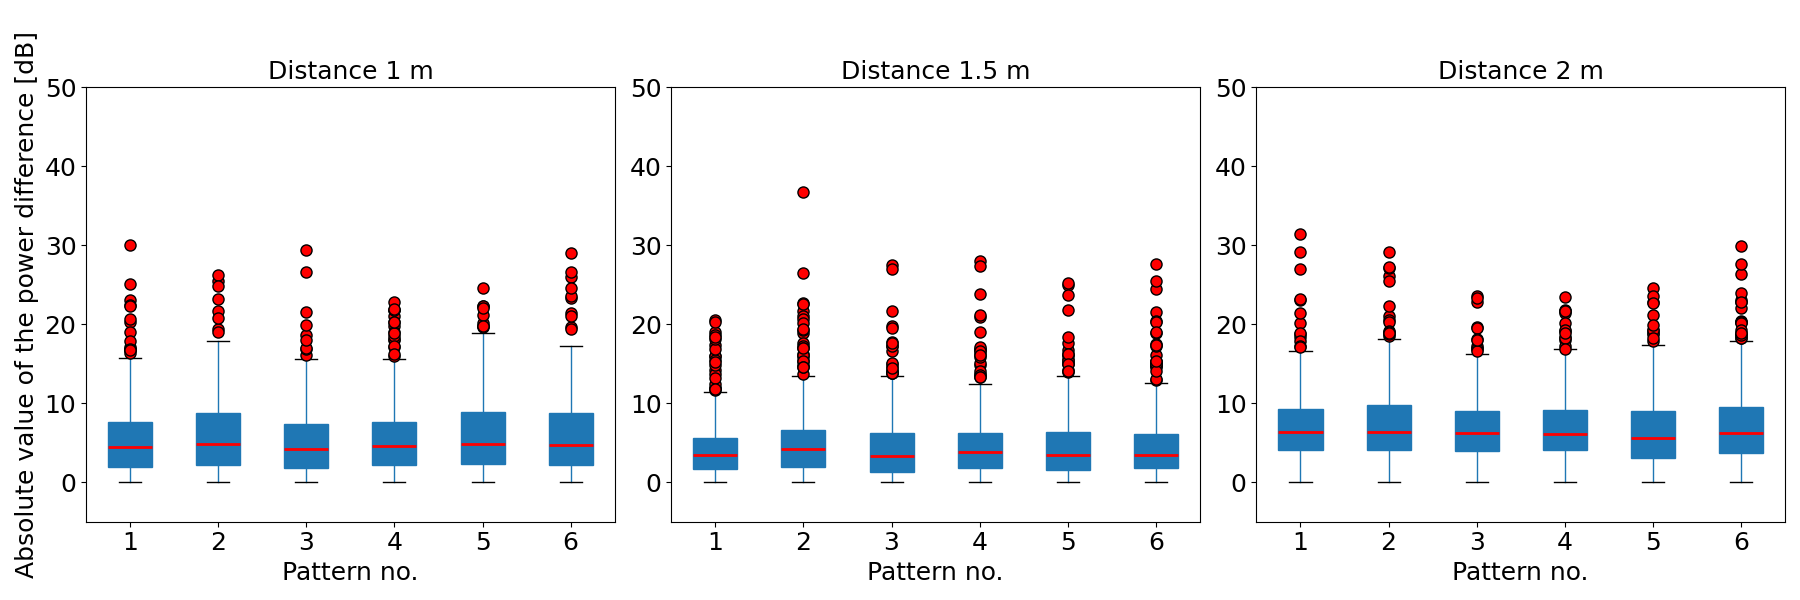
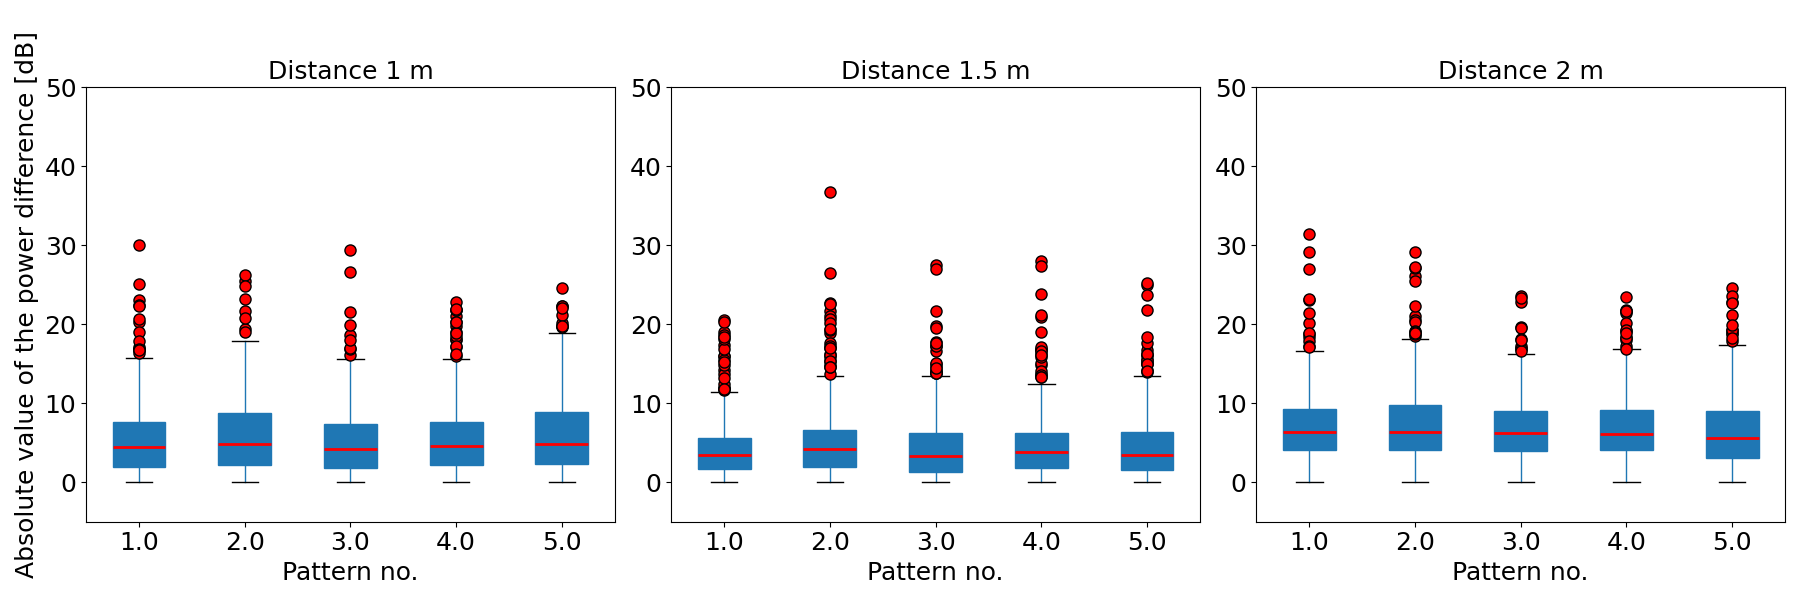
XDDDD kolejna poprawka

diff --git a/Box_Plot/boxplot_aritcle.py b/Box_Plot/boxplot_aritcle.py
@@ -13,7 +13,7 @@ def tworz_subploty_wykresow(plik_csv_lista, wybrane_patterny, folder_wynikowy):
         17: 3,
         8: 4,
         22: 5,
-        19: 6,
+        26: 6,
     }
 
     # Podziel pliki na grupy po 3
